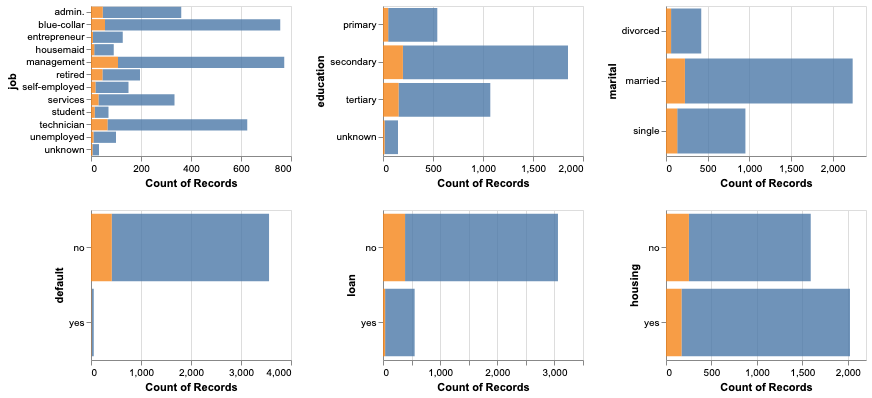
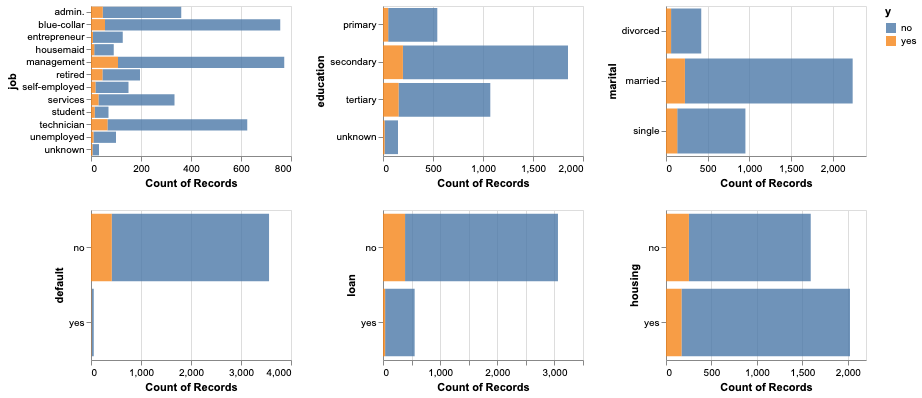
add legend of cat figure

diff --git a/src/eda.py b/src/eda.py
@@ -103,7 +103,7 @@ def make_cat_plot(dat, cat_list):
     cat_p  = alt.Chart(dat).mark_bar(opacity = 0.8).encode(
         alt.X("count()"),
         alt.Y(alt.repeat("row"), type = 'nominal'),
-        color=alt.Color('y', legend=None)
+        color='y'
     ).properties(
             width=200,
             height=150
